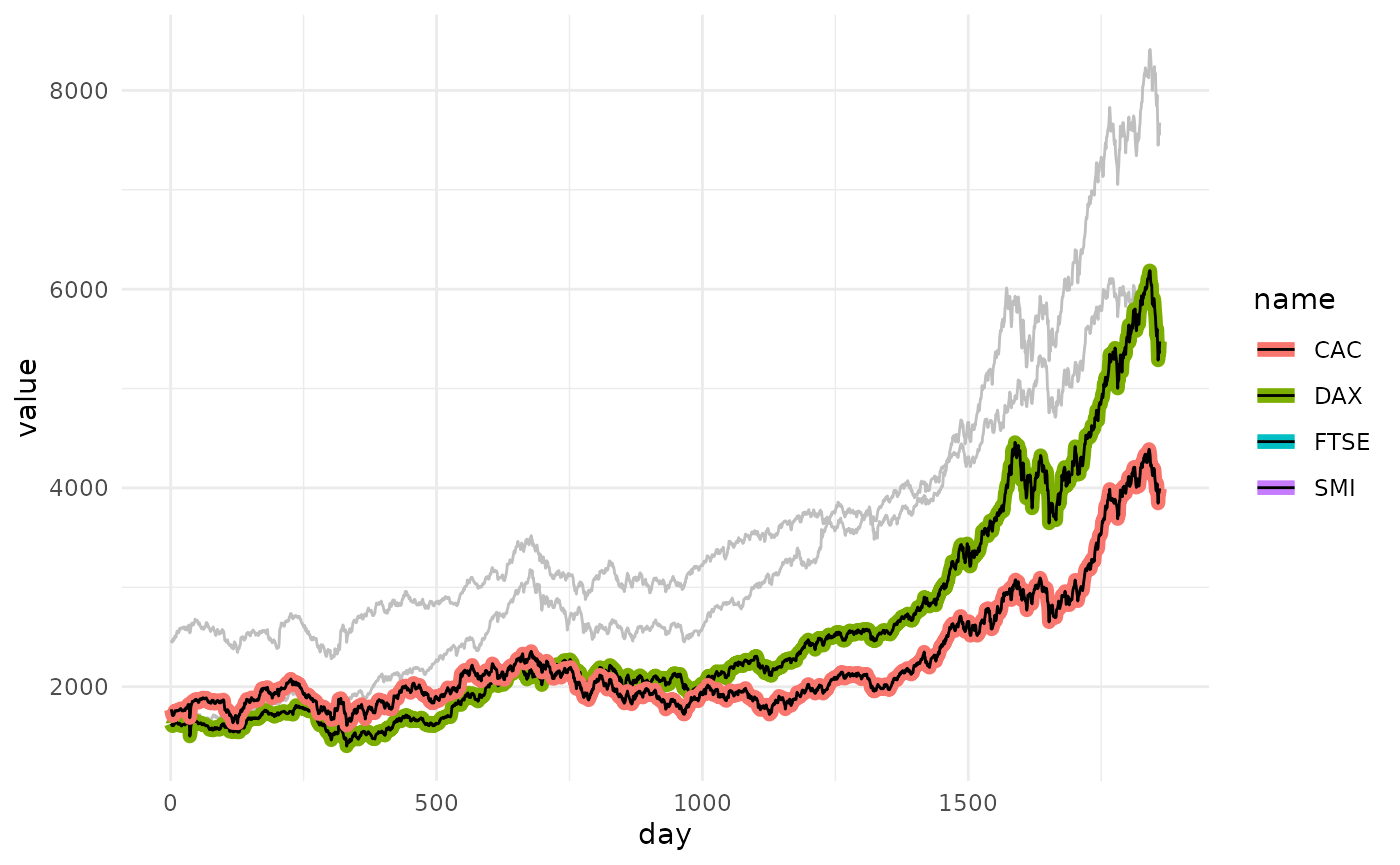
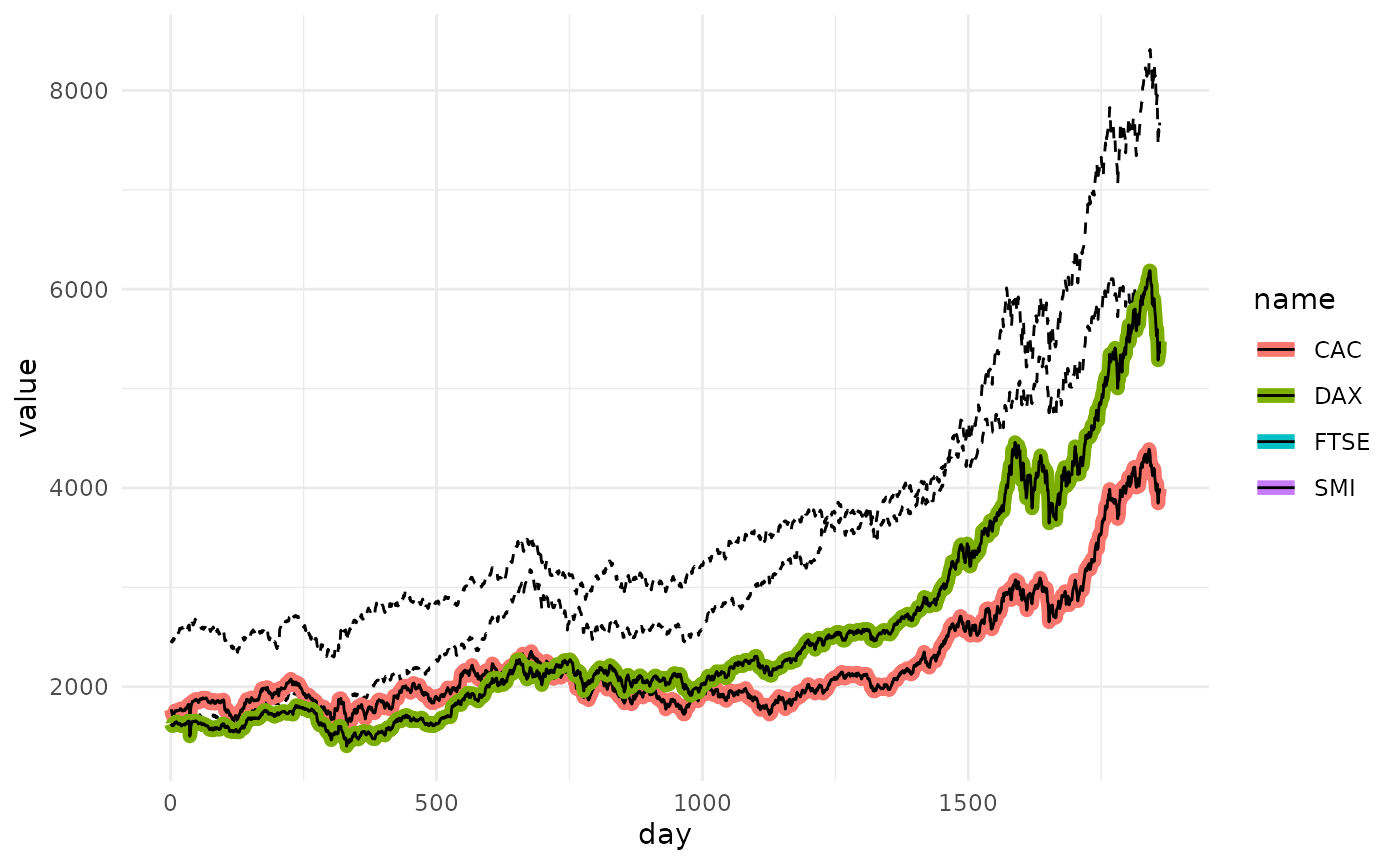
Built site for ggtrace: 0.0.0.9000@4c72568

diff --git a/articles/geom-line-trace.html b/articles/geom-line-trace.html
@@ -77,7 +77,7 @@
     <div class="page-header toc-ignore">
       <h1 data-toc-skip>geom_line_trace</h1>
             
-            <h4 class="date">September 16 2021</h4>
+            <h4 class="date">September 17 2021</h4>
       
       
       <div class="hidden name"><code>geom-line-trace.Rmd</code></div>
@@ -176,7 +176,7 @@
   <span class="fu"><a href="../reference/geom_path_trace.html">geom_line_trace</a></span><span class="op">(</span>
     trace_position    <span class="op">=</span> <span class="fu"><a href="https://rdrr.io/r/base/grep.html">grepl</a></span><span class="op">(</span><span class="st">"^[A-Z]A"</span>, <span class="va">name</span><span class="op">)</span>,
     stroke            <span class="op">=</span> <span class="fl">1</span>,
-    background_params <span class="op">=</span> <span class="fu"><a href="https://rdrr.io/r/base/list.html">list</a></span><span class="op">(</span>fill <span class="op">=</span> <span class="st">"grey75"</span><span class="op">)</span>
+    background_params <span class="op">=</span> <span class="fu"><a href="https://rdrr.io/r/base/list.html">list</a></span><span class="op">(</span>linetype <span class="op">=</span> <span class="fl">2</span><span class="op">)</span>
   <span class="op">)</span></code></pre></div>
 <p><img src="geom-line-trace_files/figure-html/unnamed-chunk-6-1.png" width="700"></p>
 <p><br></p>

diff --git a/reference/geom_path_trace.html b/reference/geom_path_trace.html
@@ -288,7 +288,7 @@ adjacent x-values.</p></td>
 <li><p><code>colour</code></p></li>
 <li><p><code>fill</code></p></li>
 <li><p><code>group</code></p></li>
-<li><p><code>KEEP_THIS_ROW</code></p></li>
+<li><p><code>KEEP_THIS_ROW_PLEASE</code></p></li>
 <li><p><code>linetype</code></p></li>
 <li><p><code>size</code></p></li>
 <li><p><code>stroke</code></p></li>

diff --git a/articles/geom-point-trace.html b/articles/geom-point-trace.html
@@ -77,7 +77,7 @@
     <div class="page-header toc-ignore">
       <h1 data-toc-skip>geom_point_trace</h1>
             
-            <h4 class="date">September 16 2021</h4>
+            <h4 class="date">September 17 2021</h4>
       
       
       <div class="hidden name"><code>geom-point-trace.Rmd</code></div>
